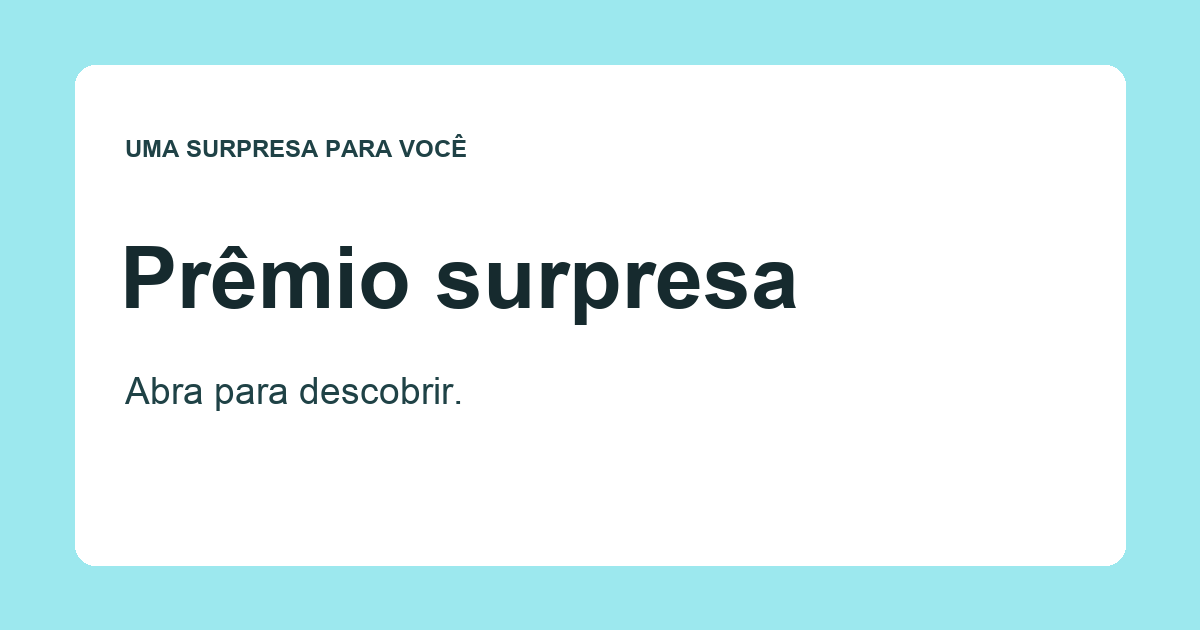
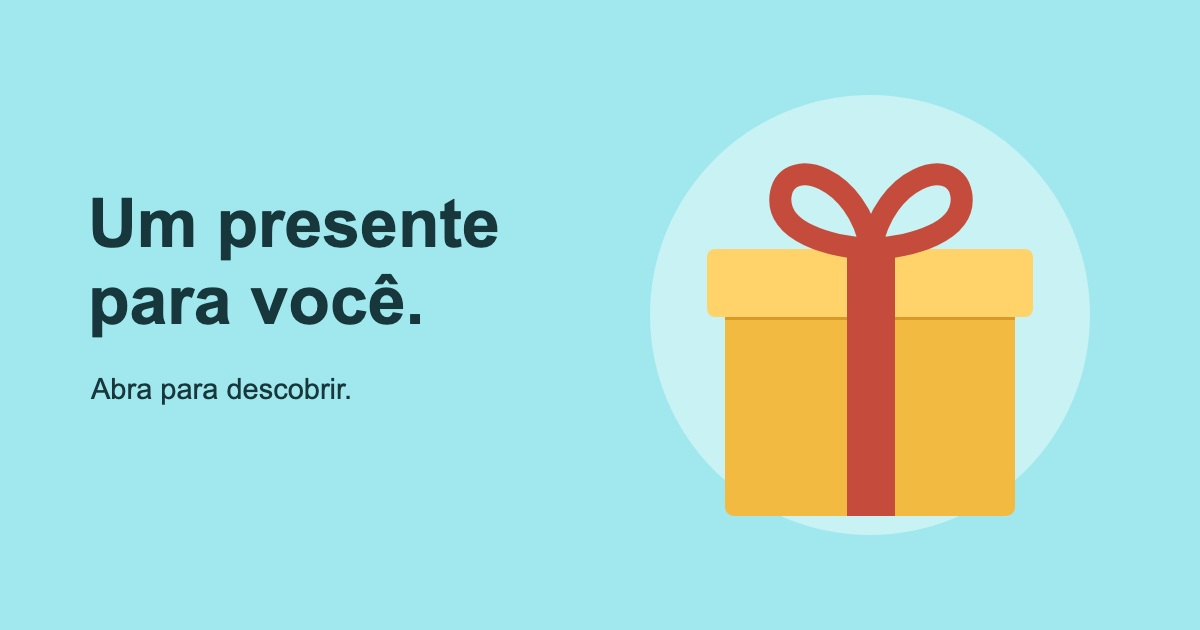
Fix prize social preview and add fresh sharing URL

diff --git a/surpresa/4b6d269dc7/index.html b/surpresa/4b6d269dc7/index.html
@@ -3,25 +3,30 @@
 <head>
 <meta charset="utf-8">
 <meta name="viewport" content="width=device-width, initial-scale=1">
-<title>Prêmio surpresa 🎁</title>
-<meta name="description" content="Tem uma surpresa esperando por você. Abra para descobrir.">
+<title>Um presente para você 🎁</title>
+<meta name="description" content="Uma entrega especial está esperando. Abra para descobrir.">
 <meta name="robots" content="noindex,nofollow,noarchive">
 <meta name="referrer" content="no-referrer">
 <meta name="theme-color" content="#9ce8ee">
 <meta property="og:type" content="website">
 <meta property="og:locale" content="pt_BR">
-<meta property="og:title" content="Prêmio surpresa 🎁">
-<meta property="og:description" content="Tem uma surpresa esperando por você. Abra para descobrir.">
+<meta property="og:title" content="Um presente para você 🎁">
+<meta property="og:description" content="Uma entrega especial está esperando. Abra para descobrir.">
 <meta property="og:url" content="https://kolja.com.br/surpresa/4b6d269dc7/">
-<meta property="og:image" content="https://kolja.com.br/surpresa/4b6d269dc7/preview.png">
+<meta property="og:image" content="https://kolja.com.br/surpresa/4b6d269dc7/presente-v2.jpg">
 <meta property="og:image:width" content="1200">
 <meta property="og:image:height" content="630">
-<meta property="og:image:type" content="image/png">
-<meta property="og:image:alt" content="Prêmio surpresa. Uma surpresa esperando por você.">
+<meta property="og:image:type" content="image/jpeg">
+<meta property="og:image:alt" content="Caixa de presente dourada com laço vermelho.">
 <meta name="twitter:card" content="summary_large_image">
-<meta name="twitter:title" content="Prêmio surpresa 🎁">
-<meta name="twitter:description" content="Tem uma surpresa esperando por você. Abra para descobrir.">
-<meta name="twitter:image" content="https://kolja.com.br/surpresa/4b6d269dc7/preview.png">
+<meta name="twitter:title" content="Um presente para você 🎁">
+<meta name="twitter:description" content="Uma entrega especial está esperando. Abra para descobrir.">
+<meta name="twitter:image" content="https://kolja.com.br/surpresa/4b6d269dc7/presente-v2.jpg">
+<meta property="og:image:secure_url" content="https://kolja.com.br/surpresa/4b6d269dc7/presente-v2.jpg">
+<meta name="twitter:image:alt" content="Caixa de presente dourada com laço vermelho.">
+<meta itemprop="image" content="https://kolja.com.br/surpresa/4b6d269dc7/presente-v2.jpg">
+<link rel="image_src" href="https://kolja.com.br/surpresa/4b6d269dc7/presente-v2.jpg">
+<link rel="canonical" href="https://kolja.com.br/surpresa/4b6d269dc7/">
 <link rel="icon" href="data:,">
 <style>
 :root{color-scheme:light;--bg:oklch(.88 .075 202);--ink:oklch(.23 .035 207);--muted:oklch(.36 .04 207);--white:oklch(1 0 0)}
@@ -32,7 +37,8 @@ main{width:min(100%,460px);text-align:center}
 h1{font-size:clamp(2rem,7.5vw,2.7rem);line-height:1.06;letter-spacing:-.035em;margin:0 auto 20px;text-wrap:balance;font-weight:850}
 h1 span{white-space:nowrap}
 figure{margin:0 auto;width:min(100%,370px);padding:9px 9px 0;background:var(--white);border-radius:10px;overflow:hidden;transform:rotate(-1deg)}
-img{display:block;width:100%;height:auto;border-radius:4px}
+.reveal-photo{display:block;width:100%;aspect-ratio:550/712;border-radius:4px;background:url("https://kolja.com.br/surpresa/4b6d269dc7/photo.jpg") center / contain no-repeat}
+.preview-fallback{display:none}
 figcaption{font-size:14px;font-weight:750;padding:12px 5px 14px;line-height:1.3}
 .joke{margin:22px 0 0;font-size:17px;line-height:1.45;font-weight:650}
 .foot{margin:7px 0 0;font-size:13px;line-height:1.5;color:var(--muted)}
@@ -41,9 +47,10 @@ figcaption{font-size:14px;font-weight:750;padding:12px 5px 14px;line-height:1.3}
 </style>
 </head>
 <body>
+<img class="preview-fallback" src="https://kolja.com.br/surpresa/4b6d269dc7/presente-v2.jpg" width="1200" height="630" alt="Caixa de presente dourada com laço vermelho." aria-hidden="true">
 <main>
 <div class="copy"><p class="tag">Entrega especial</p><h1>Seu prêmio <span>chegou 🏆</span></h1></div>
-<figure><img src="photo.jpg" width="550" height="712" alt="Gorila olhando para a câmera e mostrando o dedo do meio, como parte de uma pegadinha." fetchpriority="high"><figcaption>Escolhido a dedo. 🤌</figcaption></figure>
+<figure><div class="reveal-photo" role="img" aria-label="Gorila olhando para a câmera e mostrando o dedo do meio, como parte de uma pegadinha."></div><figcaption>Escolhido a dedo. 🤌</figcaption></figure>
 <div class="ending"><p class="joke">É pegadinha. Mas o carinho é real. 😂</p><p class="foot">Pode rir. Esse prêmio é só uma brincadeira.</p></div>
 </main>
 </body>

diff --git a/surpresa/4b6d269dc7/presente-v2/index.html b/surpresa/4b6d269dc7/presente-v2/index.html
@@ -1,0 +1,57 @@
+<!doctype html>
+<html lang="pt-BR">
+<head>
+<meta charset="utf-8">
+<meta name="viewport" content="width=device-width, initial-scale=1">
+<title>Um presente para você 🎁</title>
+<meta name="description" content="Uma entrega especial está esperando. Abra para descobrir.">
+<meta name="robots" content="noindex,nofollow,noarchive">
+<meta name="referrer" content="no-referrer">
+<meta name="theme-color" content="#9ce8ee">
+<meta property="og:type" content="website">
+<meta property="og:locale" content="pt_BR">
+<meta property="og:title" content="Um presente para você 🎁">
+<meta property="og:description" content="Uma entrega especial está esperando. Abra para descobrir.">
+<meta property="og:url" content="https://kolja.com.br/surpresa/4b6d269dc7/presente-v2/">
+<meta property="og:image" content="https://kolja.com.br/surpresa/4b6d269dc7/presente-v2.jpg">
+<meta property="og:image:width" content="1200">
+<meta property="og:image:height" content="630">
+<meta property="og:image:type" content="image/jpeg">
+<meta property="og:image:alt" content="Caixa de presente dourada com laço vermelho.">
+<meta name="twitter:card" content="summary_large_image">
+<meta name="twitter:title" content="Um presente para você 🎁">
+<meta name="twitter:description" content="Uma entrega especial está esperando. Abra para descobrir.">
+<meta name="twitter:image" content="https://kolja.com.br/surpresa/4b6d269dc7/presente-v2.jpg">
+<meta property="og:image:secure_url" content="https://kolja.com.br/surpresa/4b6d269dc7/presente-v2.jpg">
+<meta name="twitter:image:alt" content="Caixa de presente dourada com laço vermelho.">
+<meta itemprop="image" content="https://kolja.com.br/surpresa/4b6d269dc7/presente-v2.jpg">
+<link rel="image_src" href="https://kolja.com.br/surpresa/4b6d269dc7/presente-v2.jpg">
+<link rel="canonical" href="https://kolja.com.br/surpresa/4b6d269dc7/presente-v2/">
+<link rel="icon" href="data:,">
+<style>
+:root{color-scheme:light;--bg:oklch(.88 .075 202);--ink:oklch(.23 .035 207);--muted:oklch(.36 .04 207);--white:oklch(1 0 0)}
+*{box-sizing:border-box}
+body{margin:0;background:var(--bg);color:var(--ink);font-family:ui-rounded,"Arial Rounded MT Bold",system-ui,sans-serif;min-height:100svh;display:grid;place-items:center;padding:24px 20px}
+main{width:min(100%,460px);text-align:center}
+.tag{display:inline-block;margin:0 0 12px;padding:7px 14px;border:1px solid currentColor;border-radius:999px;font-size:13px;font-weight:700;letter-spacing:.02em}
+h1{font-size:clamp(2rem,7.5vw,2.7rem);line-height:1.06;letter-spacing:-.035em;margin:0 auto 20px;text-wrap:balance;font-weight:850}
+h1 span{white-space:nowrap}
+figure{margin:0 auto;width:min(100%,370px);padding:9px 9px 0;background:var(--white);border-radius:10px;overflow:hidden;transform:rotate(-1deg)}
+.reveal-photo{display:block;width:100%;aspect-ratio:550/712;border-radius:4px;background:url("https://kolja.com.br/surpresa/4b6d269dc7/photo.jpg") center / contain no-repeat}
+.preview-fallback{display:none}
+figcaption{font-size:14px;font-weight:750;padding:12px 5px 14px;line-height:1.3}
+.joke{margin:22px 0 0;font-size:17px;line-height:1.45;font-weight:650}
+.foot{margin:7px 0 0;font-size:13px;line-height:1.5;color:var(--muted)}
+@media(min-width:900px){main{width:min(100%,950px);display:grid;grid-template-columns:1fr 390px;column-gap:64px;text-align:left;align-items:center}.copy{grid-column:1;grid-row:1}h1{font-size:3.8rem;line-height:1.03;margin-bottom:0}.tag{margin-bottom:24px}figure{grid-column:2;grid-row:1/3;width:100%;margin:0}.ending{grid-column:1;grid-row:2;align-self:start}.joke{font-size:21px;margin-top:24px}.foot{font-size:14px}}
+@media(max-width:360px){body{padding:20px 16px}h1{font-size:1.9rem}figure{width:92%}.joke{font-size:15px}}
+</style>
+</head>
+<body>
+<img class="preview-fallback" src="https://kolja.com.br/surpresa/4b6d269dc7/presente-v2.jpg" width="1200" height="630" alt="Caixa de presente dourada com laço vermelho." aria-hidden="true">
+<main>
+<div class="copy"><p class="tag">Entrega especial</p><h1>Seu prêmio <span>chegou 🏆</span></h1></div>
+<figure><div class="reveal-photo" role="img" aria-label="Gorila olhando para a câmera e mostrando o dedo do meio, como parte de uma pegadinha."></div><figcaption>Escolhido a dedo. 🤌</figcaption></figure>
+<div class="ending"><p class="joke">É pegadinha. Mas o carinho é real. 😂</p><p class="foot">Pode rir. Esse prêmio é só uma brincadeira.</p></div>
+</main>
+</body>
+</html>
